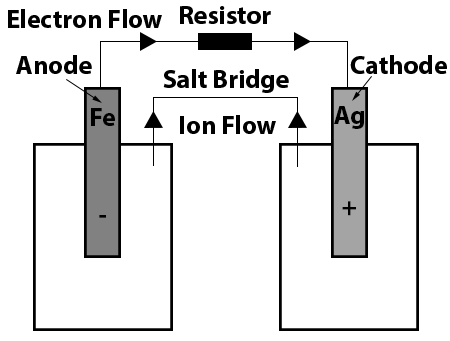
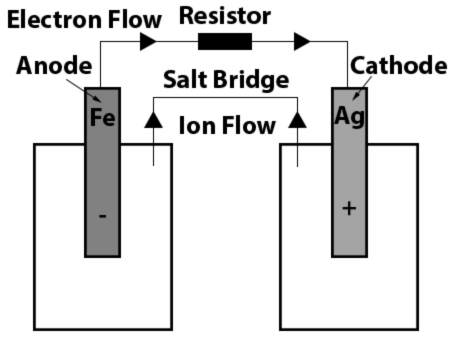
update sodiumElectrolysis asset import from JPG to PNG format

Changed region(s): [[0.0, 0.0, 0.9956, 0.9971], [0.0622, 0.4106, 0.3733, 0.9971], [0.3111, 0.2933, 0.3422, 0.3226]]

diff --git a/src/components/GalvanicTheory.jsx b/src/components/GalvanicTheory.jsx
@@ -25,7 +25,7 @@ import danialCell from "../assets/danial_cell.png";
 import aluminiumCopper from "../assets/Aluminium-Copper.jpg";
 import ironSilver from "../assets/Iron-Silver.png";
 import pencilElectrolysis from "../assets/pencil.png";
-import sodiumElectrolysis from "../assets/sodium.jpg";
+import sodiumElectrolysis from "../assets/sodium.png";
 import saltBridgeKCl from "../assets/salt.png"; // Reuse salt.png or another KCl image
 
 // ✅ Styling
